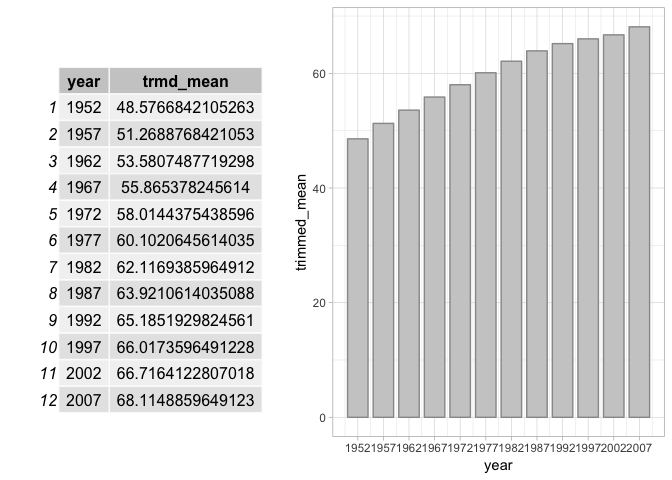
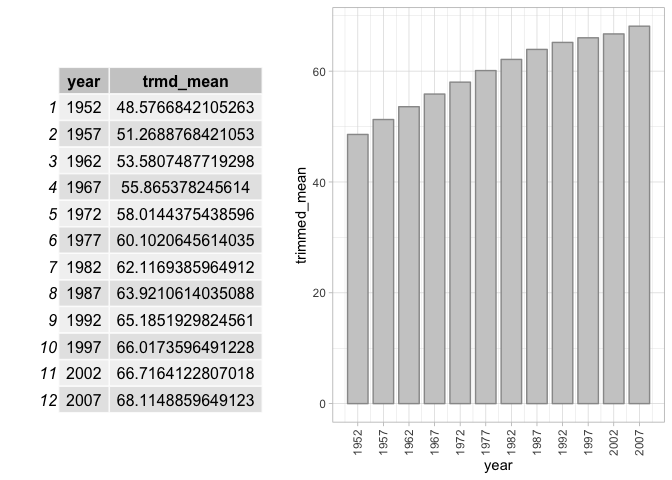
deleting unnecessary file and pushing file changes

diff --git a/hw03-rasiimwe.md b/hw03-rasiimwe.md
@@ -3,8 +3,11 @@ hw03-rasiimwe.Rmd
 Rebecca Asiimwe
 2018-09-27
 
-STAT545 Homework 03: Data Manipulation and Exploration using dplyr accompanied by visualizations using ggplot2.
-===============================================================================================================
+STAT545 Homework 03:
+====================
+
+Data Manipulation and Exploration using dplyr accompanied by visualizations using ggplot2.
+------------------------------------------------------------------------------------------
 
 ### Homework Tasks:
 
@@ -17,7 +20,7 @@ STAT545 Homework 03: Data Manipulation and Exploration using dplyr accompanied b
 #### Loading all required packages for this assignment
 
 ``` r
-suppressPackageStartupMessages(library(tidyverse))
+suppressPackageStartupMessages(library(tidyverse)) 
 ```
 
     ## Warning: package 'dplyr' was built under R version 3.5.1
@@ -116,14 +119,8 @@ t_mean <- trimmed_mean %>%
   geom_bar(stat = "identity", width=4, fill = "gray80", color="gray60")+
   labs(y="trimmed_mean")+
   theme_light()+  
-  scale_x_continuous("year", labels = as.character(trimmed_mean$year), breaks = trimmed_mean$year)
-
-t_mean <- trimmed_mean %>% 
-  ggplot(aes(year,trmd_mean))+
-  geom_bar(stat = "identity", width=4, fill = "gray80", color="gray60")+
-  labs(y="trimmed_mean")+
-  theme_light()+  
-  scale_x_continuous("year", labels = as.character(trimmed_mean$year), breaks = trimmed_mean$year)
+  scale_x_continuous("year", labels = as.character(trimmed_mean$year), breaks = trimmed_mean$year)+
+  theme(axis.text.x=element_text(angle=90,hjust=1,vjust=0.5))
 
 grid.arrange(tableGrob((trimmed_mean)),t_mean,nrow=1,widths = 3:4)
 ```
@@ -214,7 +211,7 @@ Homework Task 4:
 
 #### Idnentifying continent specific outliers
 
-I will begin with a preliminary sniff of all continents to identify those with interesting patterns that may hint on the posibility of them having countries with interesting stories.
+I will begin with a **preliminary sniff** of all continents to identify those with interesting patterns that may hint on the posibility of them having countries with interesting stories.
 
 ``` r
 ggplot(gapminder, aes(gdpPercap,lifeExp)) + 
@@ -275,7 +272,7 @@ gapminder %>%
 
 Not as dramatic as Africa :smile:, but let's see what other plots tell us.
 
-#### Below, I fiuther look into continent specific countries
+#### Below, I further look into continent specific countries
 
 ``` r
 Africa_check <- gapminder %>% filter(continent=="Africa") 
@@ -698,7 +695,7 @@ xtable(meassures_of_spread)
 ```
 
     ## % latex table generated in R 3.5.0 by xtable 1.8-3 package
-    ## % Tue Oct  2 21:14:54 2018
+    ## % Tue Oct  2 22:49:20 2018
     ## \begin{table}[ht]
     ## \centering
     ## \begin{tabular}{rlrrrrrrrr}
